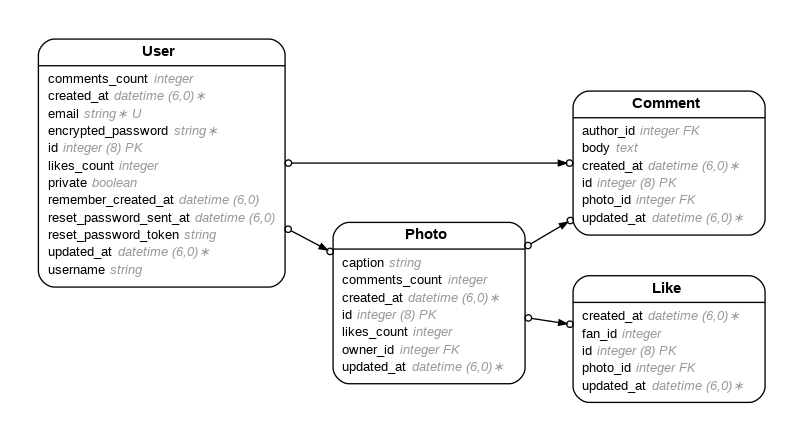
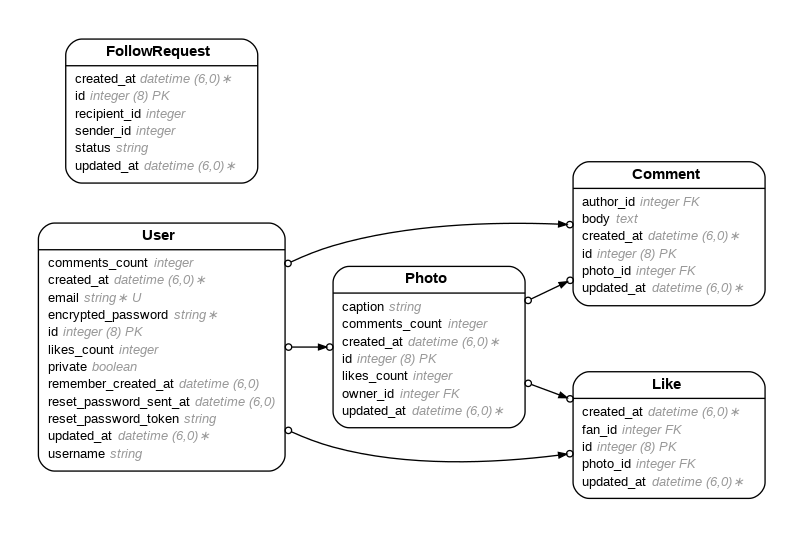
more stuff

Changed region(s): [[0.0311, 0.059, 0.9651, 0.9433], [0.934, 0.2063, 0.9651, 0.2358], [0.7161, 0.2063, 0.7472, 0.2358]]

diff --git a/app/controllers/follow_requests_controller.rb b/app/controllers/follow_requests_controller.rb
@@ -1,0 +1,82 @@
+class FollowRequestsController < ApplicationController
+  before_action :set_follow_request, only: %i[ show edit update destroy ]
+
+  # GET /follow_requests or /follow_requests.json
+  def index
+    @follow_requests = FollowRequest.all
+  end
+
+  # GET /follow_requests/1 or /follow_requests/1.json
+  def show
+  end
+
+  # GET /follow_requests/new
+  def new
+    @follow_request = FollowRequest.new
+  end
+
+  # GET /follow_requests/1/edit
+  def edit
+  end
+
+  # POST /follow_requests or /follow_requests.json
+  def create
+    @follow_request = FollowRequest.new(follow_request_params)
+      @follow_request.sender = current_user
+
+    respond_to do |format|
+      if @follow_request.save
+        format.html { redirect_to follow_request_url(@follow_request), notice: "Follow request was successfully created." }
+        format.json { render :show, status: :created, location: @follow_request }
+      else
+        format.html { render :new, status: :unprocessable_entity }
+        format.json { render json: @follow_request.errors, status: :unprocessable_entity }
+      end
+    end
+  end
+
+  # PATCH/PUT /follow_requests/1 or /follow_requests/1.json
+  def update
+    respond_to do |format|
+      if @follow_request.update(follow_request_params)
+        format.html { redirect_to follow_request_url(@follow_request), notice: "Follow request was successfully updated." }
+        format.json { render :show, status: :ok, location: @follow_request }
+      else
+        format.html { render :edit, status: :unprocessable_entity }
+        format.json { render json: @follow_request.errors, status: :unprocessable_entity }
+      end
+    end
+  end
+
+  # DELETE /follow_requests/1 or /follow_requests/1.json
+  def destroy
+    @follow_request.destroy!
+
+    respond_to do |format|
+      format.html { redirect_to follow_requests_url, notice: "Follow request was successfully destroyed." }
+      format.json { head :no_content }
+    end
+  end
+
+  private
+    # Use callbacks to share common setup or constraints between actions.
+    def set_follow_request
+      @follow_request = FollowRequest.find(params[:id])
+    end
+
+    # Only allow a list of trusted parameters through.
+    def follow_request_params
+  params.require(:follow_request).permit(:recipient_id)
+end
+def accept
+  request = FollowRequest.find(params[:id])
+  request.update(status: "accepted")
+  redirect_to user_path(current_user), notice: "Request accepted!"
+end
+
+def reject
+  request = FollowRequest.find(params[:id])
+  request.update(status: "rejected")
+  redirect_to user_path(current_user), notice: "Request rejected."
+end
+end

diff --git a/db/schema.rb b/db/schema.rb
@@ -10,7 +10,7 @@
 #
 # It's strongly recommended that you check this file into your version control system.
 
-ActiveRecord::Schema[7.1].define(version: 2025_05_28_002934) do
+ActiveRecord::Schema[7.1].define(version: 2025_05_28_003750) do
   # These are extensions that must be enabled in order to support this database
   enable_extension "plpgsql"
 
@@ -18,6 +18,14 @@ ActiveRecord::Schema[7.1].define(version: 2025_05_28_002934) do
     t.text "body"
     t.integer "photo_id"
     t.integer "author_id"
+    t.datetime "created_at", null: false
+    t.datetime "updated_at", null: false
+  end
+
+  create_table "follow_requests", force: :cascade do |t|
+    t.integer "sender_id"
+    t.integer "recipient_id"
+    t.string "status"
     t.datetime "created_at", null: false
     t.datetime "updated_at", null: false
   end

diff --git a/config/routes.rb b/config/routes.rb
@@ -1,10 +1,21 @@
 Rails.application.routes.draw do
-  resources :likes
-  resources :comments
-  resources :photos
+  get 'users/index'
+  get 'users/show'
   devise_for :users
-  # Define your application routes per the DSL in https://guides.rubyonrails.org/routing.html
+
+  resources :photos
+  resources :comments
+  resources :likes
+
+  resources :follow_requests do
+    member do
+      post :accept
+      post :reject
+    end
+  end
+
+  resources :users, only: [:index, :show]
 
   # Defines the root path route ("/")
-  # root "articles#index"
+  # root "photos#index"
 end

diff --git a/app/models/follow_request.rb b/app/models/follow_request.rb
@@ -1,0 +1,15 @@
+# == Schema Information
+#
+# Table name: follow_requests
+#
+#  id           :bigint           not null, primary key
+#  status       :string
+#  created_at   :datetime         not null
+#  updated_at   :datetime         not null
+#  recipient_id :integer
+#  sender_id    :integer
+#
+class FollowRequest < ApplicationRecord
+  belongs_to :sender, class_name: "User"
+  belongs_to :recipient, class_name: "User"
+end

diff --git a/app/models/user.rb b/app/models/user.rb
@@ -28,4 +28,6 @@ class User < ApplicationRecord
 
          has_many :comments, dependent: :destroy
          has_many :likes, foreign_key: "fan_id", dependent: :destroy
+         has_many :sent_follow_requests, class_name: "FollowRequest", foreign_key: "sender_id", dependent: :destroy
+has_many :received_follow_requests, class_name: "FollowRequest", foreign_key: "recipient_id", dependent: :destroy
 end

diff --git a/app/controllers/application_controller.rb b/app/controllers/application_controller.rb
@@ -2,7 +2,7 @@ class ApplicationController < ActionController::Base
   skip_forgery_protection
 
   before_action :configure_permitted_parameters, if: :devise_controller?
-
+  before_action :authenticate_user!
 protected
 
 def configure_permitted_parameters

diff --git a/db/migrate/20250528003750_create_follow_requests.rb b/db/migrate/20250528003750_create_follow_requests.rb
@@ -1,0 +1,11 @@
+class CreateFollowRequests < ActiveRecord::Migration[7.1]
+  def change
+    create_table :follow_requests do |t|
+      t.integer :sender_id
+      t.integer :recipient_id
+      t.string :status
+
+      t.timestamps
+    end
+  end
+end

diff --git a/app/controllers/users_controller.rb b/app/controllers/users_controller.rb
@@ -1,0 +1,11 @@
+class UsersController < ApplicationController
+  skip_before_action :authenticate_user!, only: [:index]
+
+  def index
+    @users = User.all
+  end
+
+  def show
+    @user = User.find(params[:id])
+  end
+end
